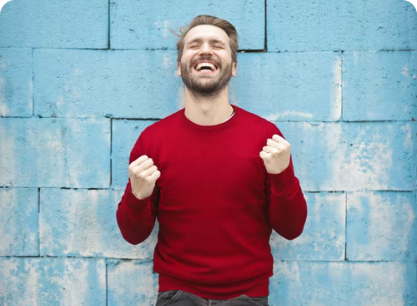
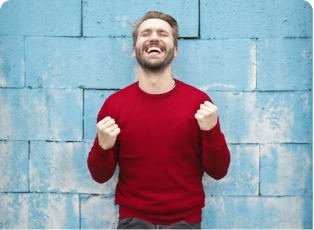
Image replacee

diff --git a/index.html b/index.html
@@ -192,7 +192,7 @@
                         </div>
                     </div>
                     <div class="card">
-                        <img src="/images/Slider-2.png" alt="image">
+                        <img src="/images/Rectangle 46MediumImage.jpg" alt="image">
                         <div class="content1">
                             <h1>Lorem ipsum dolor</h1>
                             <p>Lorem ipsum dolor sit amet, <br> consectetur adipiscing elit.</p>                        
@@ -410,7 +410,7 @@
         <h1 class="section-center">Frequently Asked Questions<span> (FAQs) </span></h1>
         <p class="paragraph-center">Reach out to us today for comprehensive, and customised health insurance plan for your workforce.</p>
         <form>
-            <input type="number" placeholder="I am looking for…">
+            <input type="text" placeholder="I am looking for…" >
             <input type="submit" name="" value="Search">
         </form>
     </div>

diff --git a/css/style.css b/css/style.css
@@ -924,7 +924,6 @@ section{
     filter: grayscale(0);
     opacity: 1;
     box-shadow: 10px 15px 40px 0px rgba(182, 181, 181, 0.493)
-    /* box-shadow: (0px 10px 10px rgba(247, 179, 67, 0.05)); */
 }
 
 
